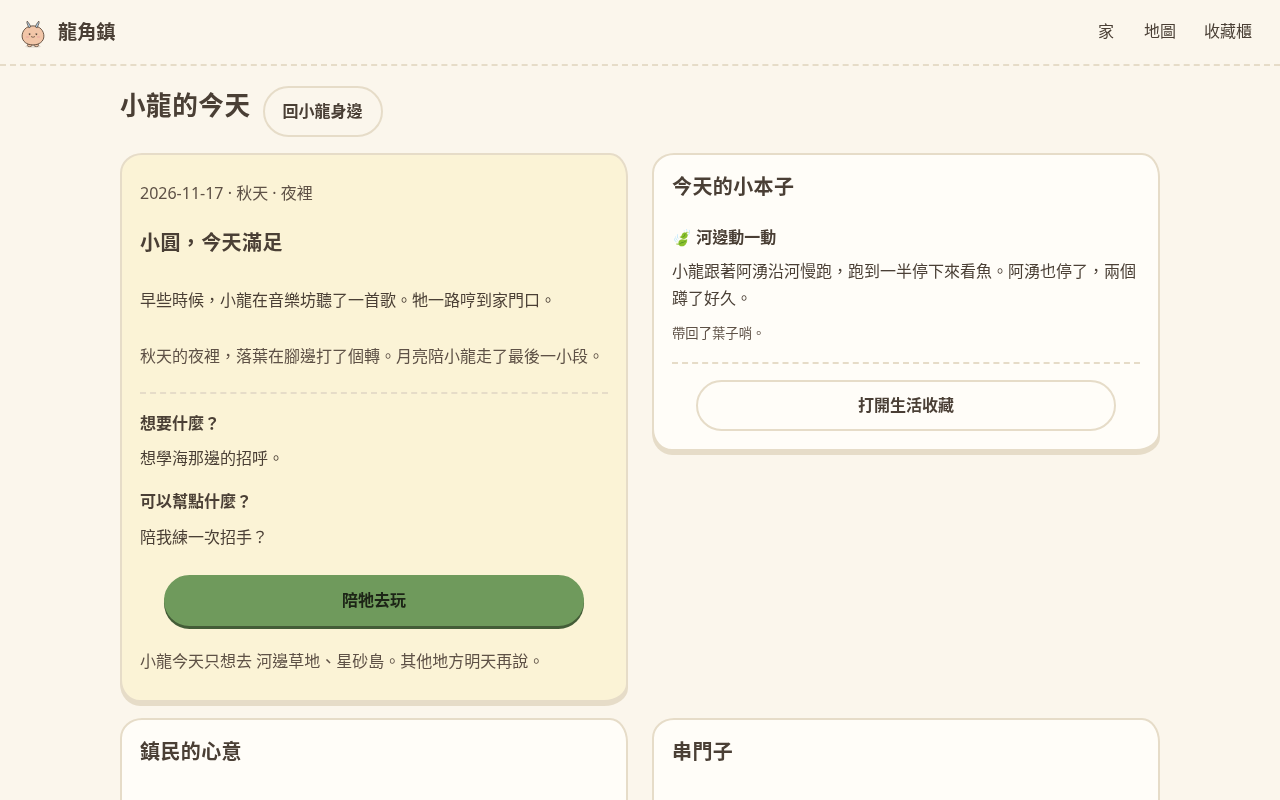
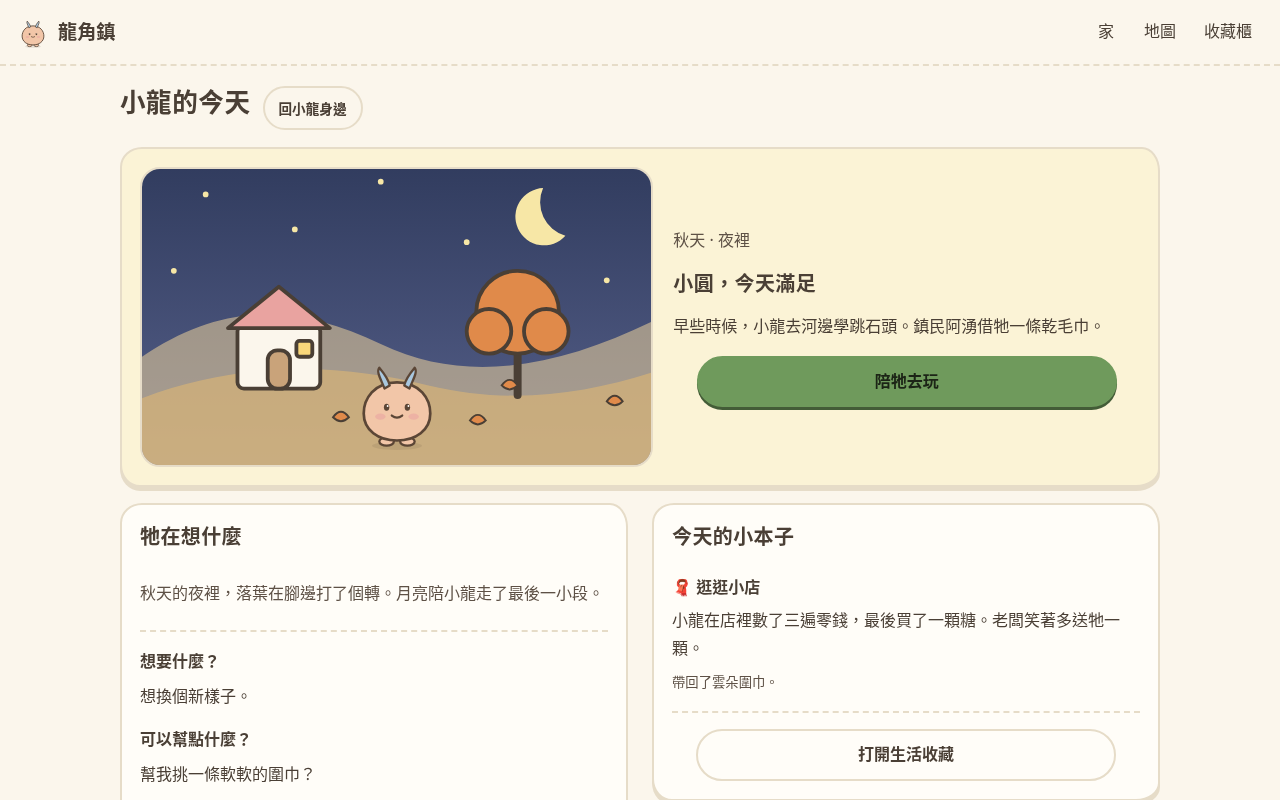
LW-13: 「小龍的今天」頁首放小龍和當下場景（季節×時段插畫），手機第一屏只留一句話和主按鈕

diff --git a/apps/web/src/components/LifeScene.tsx b/apps/web/src/components/LifeScene.tsx
@@ -1,0 +1,54 @@
+import type { ReactNode } from "react";
+
+const INK = "#4a3f35";
+const SKY: Record<string, [string, string]> = {
+  早晨: ["#fdeccb", "#fbf6ec"],
+  午後: ["#bcdcf0", "#e9f4fa"],
+  傍晚: ["#f3b592", "#fbe3c4"],
+  夜裡: ["#2f3a5c", "#56608a"],
+};
+const LAND: Record<string, { far: string; near: string; leaf: string }> = {
+  春: { far: "#cfe6bd", near: "#b4d79c", leaf: "#f6c1cf" },
+  夏: { far: "#a8d39a", near: "#86bf73", leaf: "#5f9d55" },
+  秋: { far: "#ecd29a", near: "#dfb873", leaf: "#e08a4a" },
+  冬: { far: "#e4ecf2", near: "#f7fafc", leaf: "#f7fafc" },
+};
+
+/** 小龍當下待的地方：季節決定山坡和樹，時段決定天色。小龍本人由 children 放進來。 */
+export function LifeScene({ season, period, lantern = false, label, children }: { season: string; period: string; lantern?: boolean; label: string; children: ReactNode }) {
+  const [skyTop, skyBottom] = SKY[period] ?? SKY["午後"]!;
+  const land = LAND[season] ?? LAND["春"]!;
+  const night = period === "夜裡";
+  const id = `life-sky-${period}`;
+  return <div className="life-scene-art" role="img" aria-label={label} data-season={season} data-period={period}>
+    <svg viewBox="0 0 320 200" preserveAspectRatio="xMidYMax slice" aria-hidden focusable="false">
+      <defs><linearGradient id={id} x1="0" y1="0" x2="0" y2="1"><stop offset="0" stopColor={skyTop} /><stop offset="1" stopColor={skyBottom} /></linearGradient></defs>
+      <rect width="320" height="200" fill={`url(#${id})`} />
+      {period === "早晨" && <circle cx="62" cy="96" r="20" fill="#f9d77a" />}
+      {period === "午後" && <><circle cx="250" cy="38" r="18" fill="#fbe08a" /><path d="M48 44h34a9 9 0 0 0 0-18 14 14 0 0 0-26-3 11 11 0 0 0-8 21z" fill="#fff" opacity=".85" /></>}
+      {period === "傍晚" && <circle cx="262" cy="100" r="22" fill="#f08a5d" />}
+      {night && <><path d="M252 26a18 18 0 1 0 14 30 22 22 0 0 1-14-30z" fill="#f7e7a6" />{[[40, 30], [96, 52], [150, 22], [204, 60], [292, 84], [20, 78]].map(([x, y]) => <circle key={`${x}-${y}`} cx={x} cy={y} r="1.8" fill="#f7e7a6" />)}</>}
+      <path d="M0 132c50-34 96-34 150-8s112 14 170-14v90H0z" fill={land.far} opacity={night ? .55 : 1} />
+      <path d="M0 158c70-26 130-20 180-8s96 6 140-8v58H0z" fill={land.near} opacity={night ? .6 : 1} />
+      {/* 小屋和樹都往中間靠：手機上畫面會裁掉左右兩邊 */}
+      <g transform="translate(30 0)"><g stroke={INK} strokeWidth="2.4" strokeLinejoin="round">
+        <rect x="30" y="112" width="52" height="40" rx="4" fill="#fbf6ec" />
+        <path d="M24 114l32-26 32 26z" fill={season === "冬" ? "#f7fafc" : "#e9a3a0"} />
+        <rect x="49" y="128" width="14" height="24" rx="6" fill="#c9a37a" />
+        <rect x="67" y="122" width="10" height="10" rx="2" fill={night || period === "傍晚" ? "#f9d77a" : "#cfe5f2"} />
+      </g>
+      {lantern && <g data-part="lantern" stroke={INK} strokeWidth="2"><path d="M96 100v10" fill="none" /><rect x="89" y="110" width="14" height="18" rx="6" fill="#ef8f6b" /><path d="M96 128v6" fill="none" /></g>}</g>
+      <g transform="translate(-26 0)" stroke={INK} strokeWidth="2.4" strokeLinejoin="round" strokeLinecap="round">
+        <path d="M262 156v-34" fill="none" strokeWidth="5" />
+        {season === "冬"
+          ? <><path d="M262 132l-16-14M262 126l16-16M262 122v-16" fill="none" /><path d="M244 116q6-6 10 2M270 110q6-6 10 0" fill="none" stroke="#fff" strokeWidth="4" /></>
+          : <><circle cx="262" cy="104" r="26" fill={land.leaf} /><circle cx="244" cy="116" r="14" fill={land.leaf} /><circle cx="280" cy="116" r="14" fill={land.leaf} /></>}
+      </g>
+      {season === "春" && [[224, 96], [244, 108], [232, 118], [200, 150], [130, 168]].map(([x, y]) => <circle key={`${x}-${y}`} cx={x} cy={y} r="3" fill="#fff" stroke="#e58fa6" strokeWidth="1.4" />)}
+      {season === "夏" && <path d="M120 176q4-12 8 0M196 172q4-12 8 0M296 176q4-12 8 0" fill="none" stroke="#4f8747" strokeWidth="2.4" strokeLinecap="round" />}
+      {season === "秋" && [[226, 150], [292, 160], [206, 172], [120, 170]].map(([x, y]) => <path key={`${x}-${y}`} d={`M${x} ${y}q5-7 10 0q-5 5-10 0z`} fill="#e08a4a" stroke={INK} strokeWidth="1.2" />)}
+      {season === "冬" && [[30, 40], [80, 70], [130, 36], [180, 84], [230, 64], [300, 40], [110, 104], [200, 30]].map(([x, y]) => <circle key={`${x}-${y}`} cx={x} cy={y} r="2.6" fill="#fff" />)}
+    </svg>
+    <div className="life-scene-dragon">{children}</div>
+  </div>;
+}

diff --git a/apps/web/src/pages/Life.tsx b/apps/web/src/pages/Life.tsx
@@ -3,6 +3,7 @@ import { useRef, useState } from "react";
 import { Link } from "react-router-dom";
 import { Avatar } from "../components/Avatar";
 import { Dialog } from "../components/Dialog";
+import { LifeScene } from "../components/LifeScene";
 import { api } from "../lib/api";
 import { useSession } from "../lib/session";
 import { useFetch } from "../lib/useFetch";
@@ -57,7 +58,7 @@ export function LifePage({ cabinet = false }: { cabinet?: boolean }) {
   const keepsakeStory = (id: LifeActivityId, earnedOn: string) =>
     data.history.flatMap(d => d.day === earnedOn ? d.entries : []).find(e => e.activityId === id)?.story ?? lifeActivityStory(id, new Date(`${earnedOn}T04:00:00Z`));
   return <div className="stack life-page">
-    <div className="row between"><h1>{cabinet ? "生活收藏" : "小龍的今天"}</h1><Link className={`btn ${cabinet ? "primary" : "ghost"}`} to="/">回小龍身邊</Link></div>
+    <div className="row between"><h1>{cabinet ? "生活收藏" : "小龍的今天"}</h1><Link className={`btn ${cabinet ? "primary" : "ghost small"}`} to="/">回小龍身邊</Link></div>
     {error && <p className="error" role="alert">{error}</p>}
     {cabinet ? <>
       <p>每一件都是鎮上有人親手留給小龍的。</p>
@@ -72,14 +73,23 @@ export function LifePage({ cabinet = false }: { cabinet?: boolean }) {
       </div>
       <Link className="btn ghost" to="/life">去看看小龍今天</Link>
     </> : <>
-      <div className="life-columns">
-        <section className="panel stack life-today">
-          <p className="muted">{data.day} · {data.season}天 · {data.period}</p>
+      <section className="panel life-today life-first" aria-label="小龍現在">
+        <LifeScene season={data.season} period={data.period} lantern={!!data.decoration} label={`${data.season}天${data.period}的龍角鎮，${me.character.name}在家門口`}>
+          <Avatar appearance={me.character.appearance as never} name={me.character.name} size={104} />
+          {data.outfit && <span className="life-scene-outfit" aria-hidden>🧣</span>}
+        </LifeScene>
+        <div className="stack life-first-words">
+          <p className="muted">{data.season}天 · {data.period}</p>
           <h2>{me.character.name}，今天{data.mood}</h2>
           <p>{data.today.autonomous}</p>
+          {allDone ? <Link to="/life/cabinet" className="btn primary">看看今天帶回來的</Link> : <button type="button" className="btn primary" onClick={choose}>陪牠去玩</button>}
+        </div>
+      </section>
+      <div className="life-columns">
+        <section className="panel stack life-mind" aria-label="小龍在想什麼">
+          <h2>牠在想什麼</h2>
           <p className="life-scene">{data.scene}</p>
           <div className="life-wish"><strong>想要什麼？</strong><p>{data.wish}</p><strong>可以幫點什麼？</strong><p>{data.help}</p></div>
-          {allDone ? <Link to="/life/cabinet" className="btn primary">看看今天帶回來的</Link> : <button type="button" className="btn primary" onClick={choose}>陪牠去玩</button>}
           <p className="muted">{allDone ? "今天想去的地方都去了。明天牠會想去別的地方。" : `小龍今天只想去 ${openToday.map(a => a.place).join("、")}。其他地方明天再說。`}</p>
         </section>
         <section className="panel stack life-diary" aria-label="小龍日記">

diff --git a/apps/web/src/styles.css b/apps/web/src/styles.css
@@ -369,6 +369,16 @@ body:has(.veil) main .btn.primary { visibility: hidden; }
 .life-page { width: 100%; max-width: 1040px; margin: 0 auto; }
 .life-columns { display: grid; gap: 24px; grid-template-columns: minmax(0,1fr); }
 .life-today { background: var(--butter-soft); }
+.life-first { display: grid; gap: 20px; grid-template-columns: minmax(0,1fr); align-content: start; }
+.life-first-words h2, .life-first-words p { margin: 0; }
+.life-scene-art { position: relative; height: clamp(180px, 34svh, 300px); border: 2px solid var(--line); border-radius: 20px; overflow: hidden; }
+.life-scene-art > svg { display: block; width: 100%; height: 100%; }
+.life-scene-dragon { position: absolute; left: 50%; bottom: 4%; transform: translateX(-50%); line-height: 0; }
+.life-scene-outfit { position: absolute; left: 4px; bottom: 18px; font-size: 1.3rem; line-height: 1; filter: drop-shadow(0 2px 0 var(--line)); }
+@media (max-width: 720px) {
+  /* 手機第一屏只留小龍、今天的一句話和一顆主按鈕；其他往下滑才看得到。 */
+  .life-first { min-height: calc(100svh - 150px); }
+}
 .life-wish { display: grid; gap: 8px; border-top: 2px dashed var(--line); padding-top: 16px; }
 .life-wish p { margin: 0 0 8px; }
 .life-scene { color: var(--muted); }
@@ -389,6 +399,8 @@ body:has(.veil) main .btn.primary { visibility: hidden; }
 .celebrate { max-height: calc(100dvh - 32px); overflow-y: auto; }
 @media (min-width:900px) {
   .life-columns { grid-template-columns: minmax(0,1fr) minmax(0,1fr); align-items: start; }
+  .life-first { grid-template-columns: minmax(0,1.1fr) minmax(0,1fr); align-items: center; }
+  .life-first .life-scene-art { height: 300px; }
   .life-shelf { grid-template-columns: repeat(4,minmax(0,1fr)); }
 }
 
